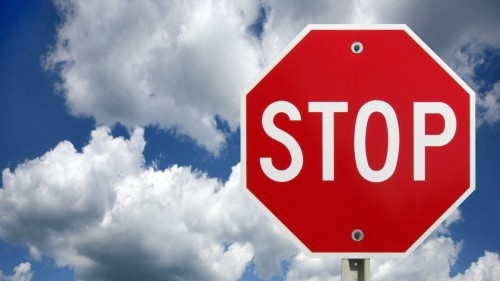
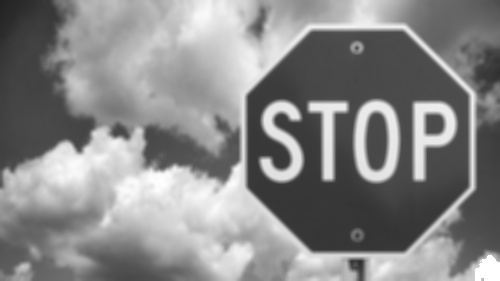
n

diff --git a/h.py b/h.py
@@ -39,4 +39,4 @@ i=cv2.drawContours(img,contours,-1,(0,0,255),3)
 
 cv2.waitKey(0)
 cv2.destroyAllWindows()
-cv2.imwrite('s.jpg',i)
+cv2.imwrite('s.jpg',gray)
